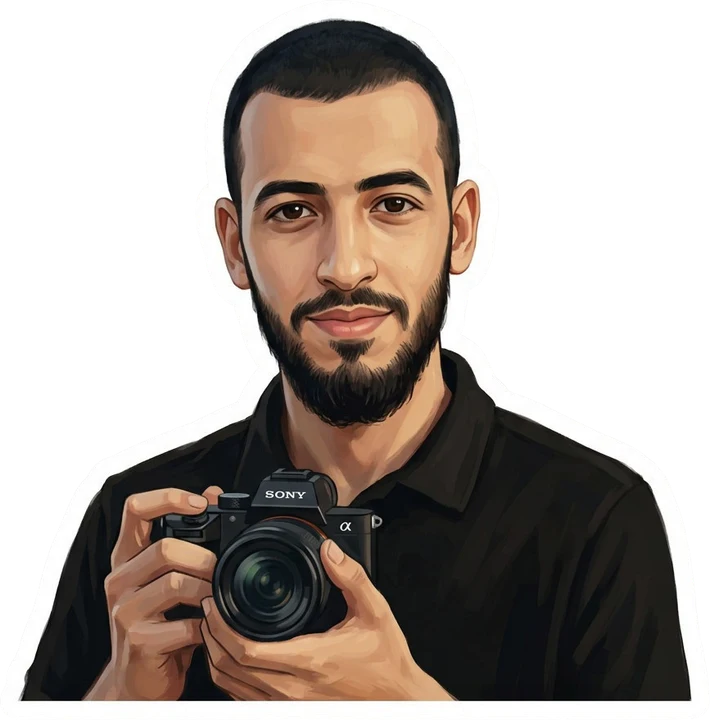
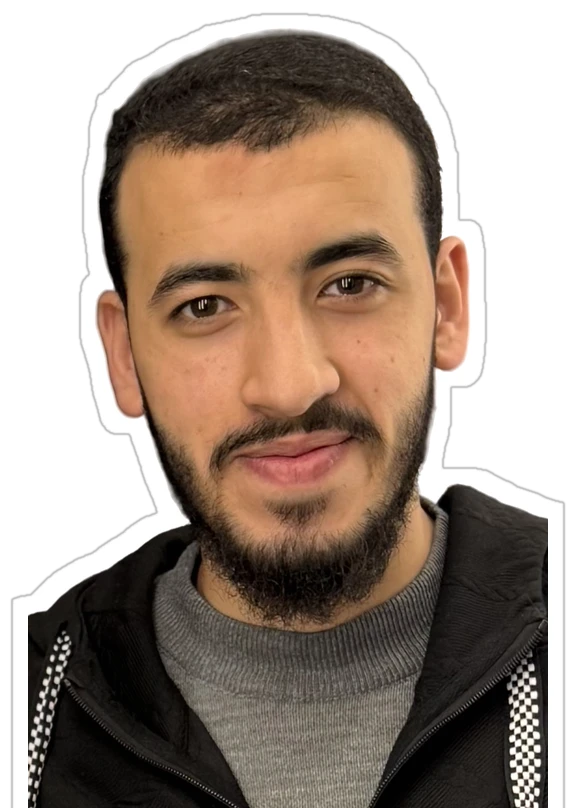
Use his real photo as the portrait
Claude-Session: https://claude.ai/code/session_015h8su1JRggz3hD5mZpmiaa

diff --git a/index.html b/index.html
@@ -87,7 +87,7 @@
           <text x="570" y="70">ا</text><text x="570" y="590">ب</text><text x="104" y="282">ج</text><text x="14" y="560">د</text><text x="14" y="96">هـ</text>
         </g>
       </svg>
-      <img class="portrait" src="assets/portrait.webp" alt="عبد الرحمن — مصوّر وحدة التصوير" width="710" height="720">
+      <img class="portrait" src="assets/portrait.webp" alt="عبد الرحمن — مصوّر وحدة التصوير" width="696" height="808">
       <figcaption>الضوء يدخل من الثقب <b>ج</b> فترتسم الصورة مقلوبة — مبدأ «البيت المظلم» الذي وصفه ابن الهيثم، وتعمل به الكاميرا في يدك.</figcaption>
     </figure>
   </div>
